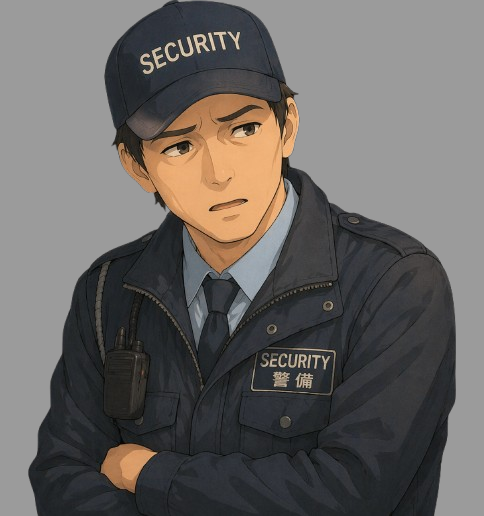
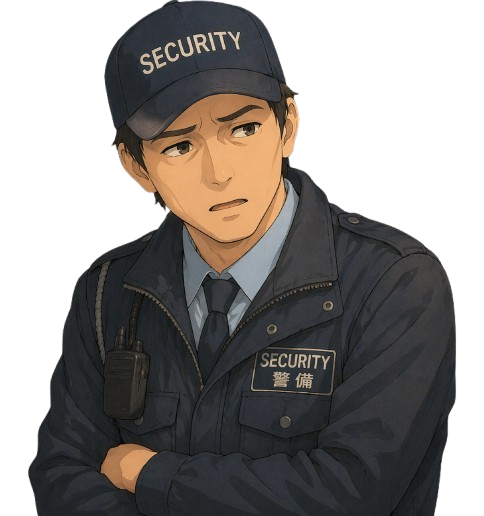
コイン画像追加・キャラクター画像更新
- コインLv1〜4の画像を追加（image_merge_icon_coin01〜04.png）
- キャラクター画像更新（image_merge_order_chara_10.png）

diff --git a/game.js b/game.js
@@ -141,11 +141,11 @@ const COIN_REWARD   = [0, 10, 20, 30, 40, 100]; // インデックス = coinLv
 const COIN_EMOJI    = ['', '🪙', '🪙', '🪙', '🪙', '💰'];
 const COIN_IMAGES   = [
   null,
-  'img/image_merge_coin_01.png',
-  'img/image_merge_coin_02.png',
-  'img/image_merge_coin_03.png',
-  'img/image_merge_coin_04.png',
-  'img/image_merge_coin_05.png',
+  'img/image_merge_icon_coin01.png',
+  'img/image_merge_icon_coin02.png',
+  'img/image_merge_icon_coin03.png',
+  'img/image_merge_icon_coin04.png',
+  null, // Lv5: 画像未提供のため絵文字フォールバック
 ];
 // しゃぼん玉がコインに変わるまでの時間（ミリ秒）
 const BUBBLE_COIN_DELAY_MS = 60000;
